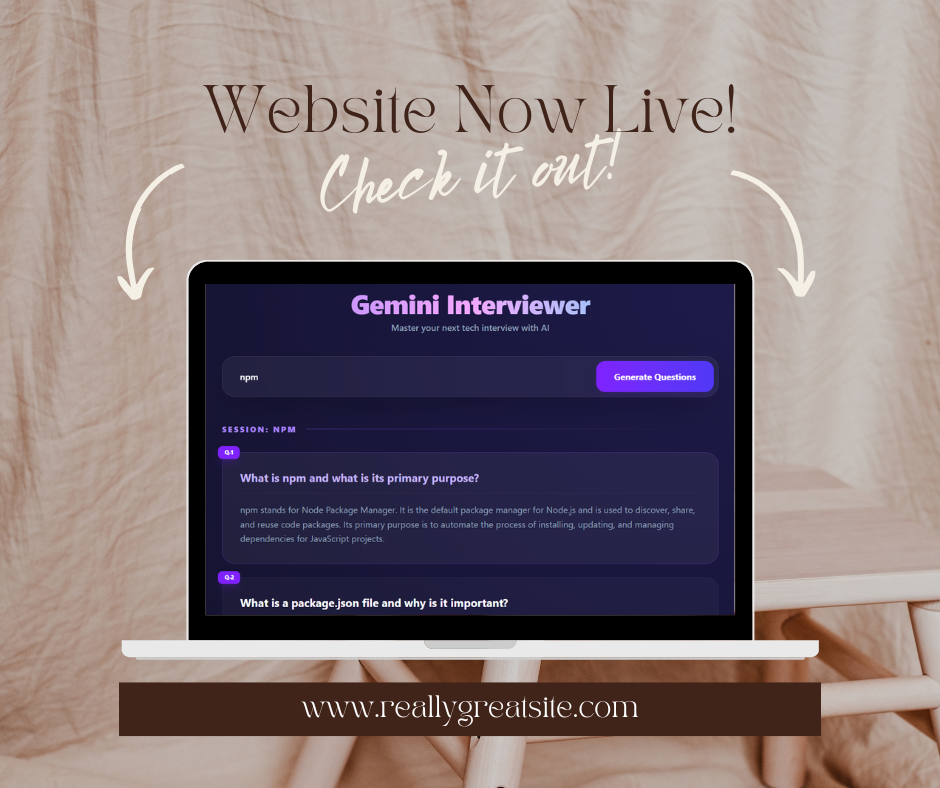
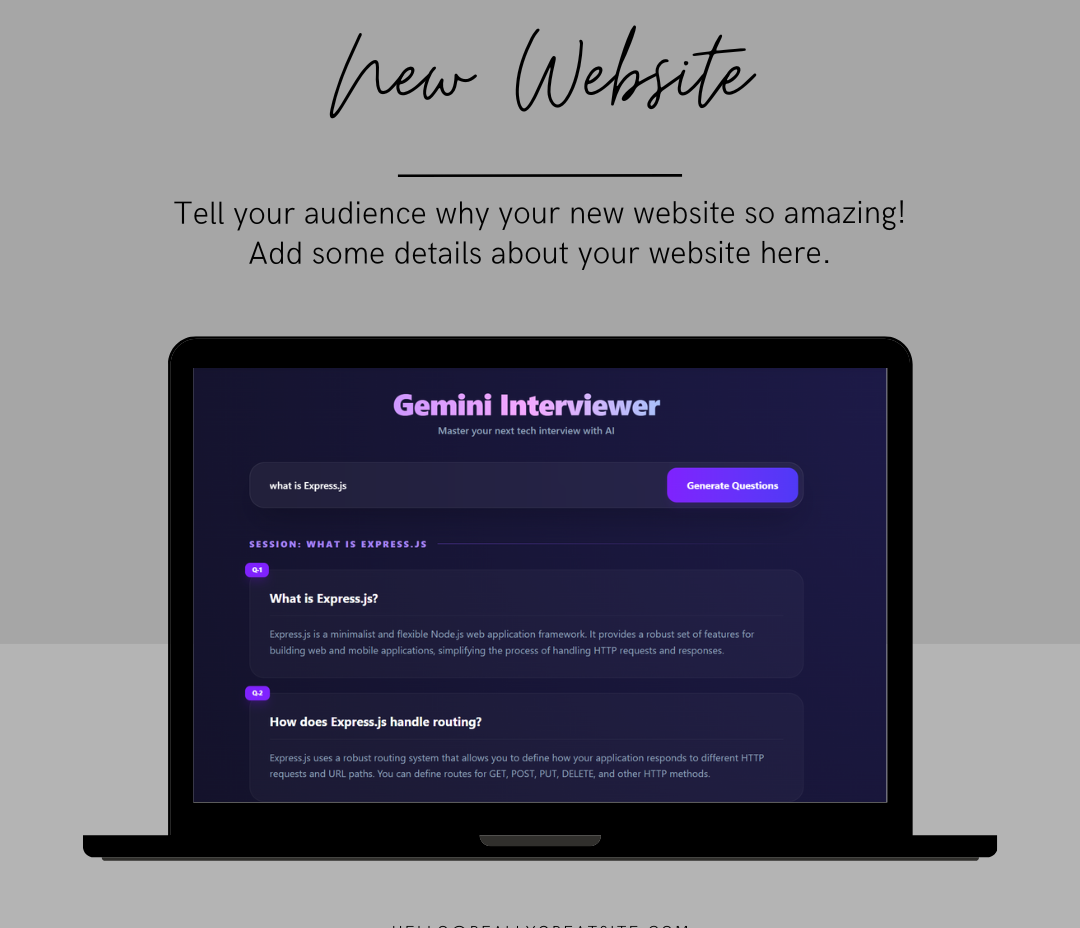
add some latest project

diff --git a/src/Component/Projects.jsx b/src/Component/Projects.jsx
@@ -9,11 +9,19 @@ import Crud from "../assets/Crud.png"
 import gemini from "../assets/gemini.png"
 import GigFlow from "../assets/GigFlow.png"
 import CodeEditor from "../assets/CodeEditor.png"
+import AICHAT_Pdf from "../assets/AICHAT_Pdf.png"
 
 
 const Projects = () => {
 
   let data = [
+      {
+        img: AICHAT_Pdf,
+        heading: "AI Chat PDF",
+        description: "Chat with your PDF and get instant answers to your QAs.",
+        versel: "https://ai-pdf-chat-zk38.vercel.app/",
+        github: "https://github.com/rajpal-singh-code/AI-PDF-Chat"
+      },
       {
         img: gemini,
         heading: "SkillSnap-AI",
@@ -69,6 +77,13 @@ const Projects = () => {
         description: "Uses HTML,TailwindCss,React ,JavaScript",
         versel: "https://refocuss-clone.vercel.app/",
         github: "https://github.com/rajpal-singh-code/Refocuss_Clone"
+      },
+      {
+        img: Portfilio,
+        heading: "Portfilio Website",
+        description: "Uses HTML,TailwindCss,React ,JavaScript",
+        versel: "https://portfolio-rajpal.vercel.app/",
+        github: "https://github.com/rajpal-singh-code/Portfolio--Rajpal"
       }
       
     ];
